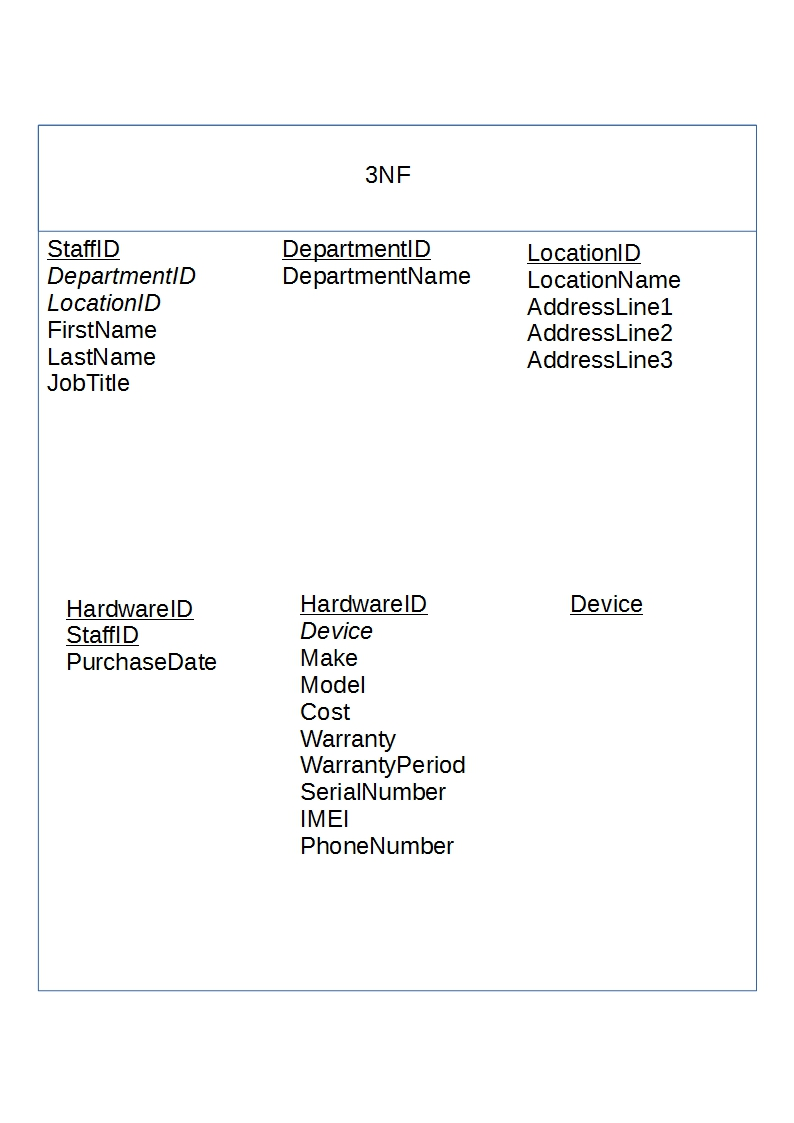
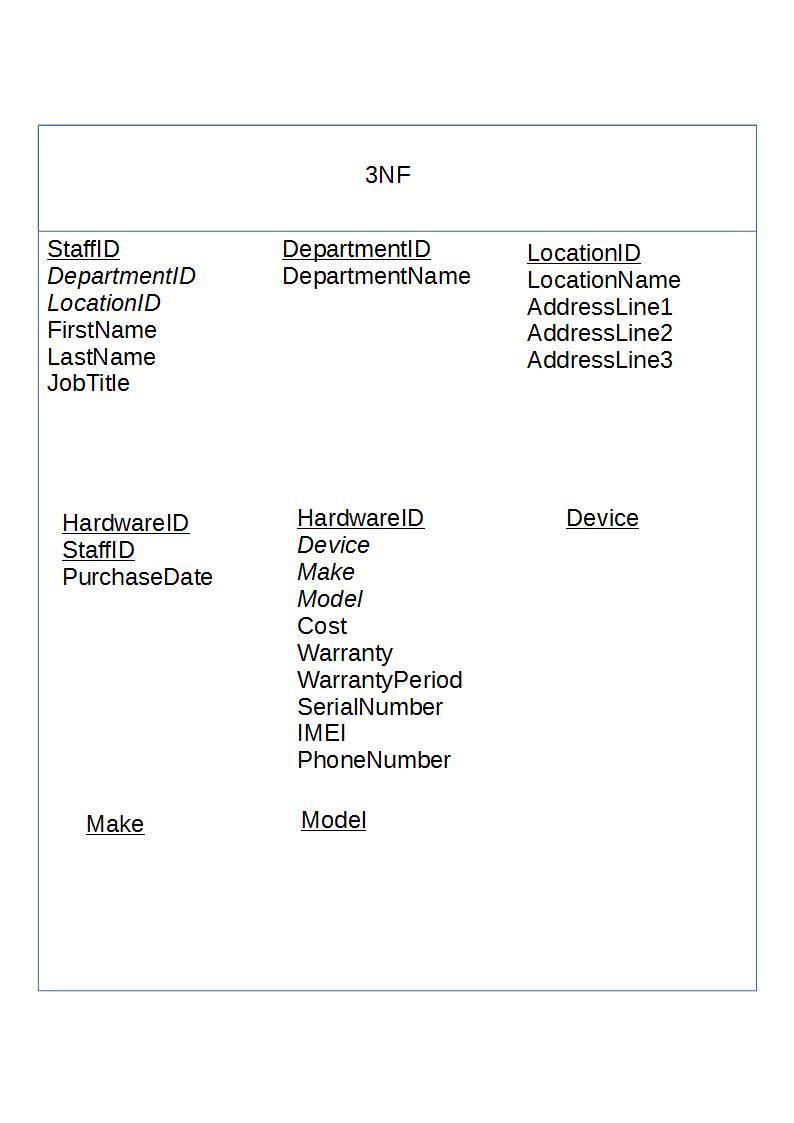
Normalisation Done

diff --git a/Coursework/Design/design.tex b/Coursework/Design/design.tex
@@ -155,7 +155,15 @@ Users will connect to the system using their own computers at the workplace. The
 
 \
 
-\textbf{Hardware}  (\underline{HardwareID}, \textit{Device}, HardwareMake, HardwareModel,\\ HardwareCost, HardwareWarranty, HardwareWarrantyPeriod,\\ HardwareSerialNumber, 		HardwareIMEINumber, \\HardwarePhoneNumber)
+\textbf{Hardware}  (\underline{HardwareID}, \textit{DeviceID},  \textit{HardwareModelID},\\ HardwareCost, HardwareWarranty, HardwareWarrantyPeriod,\\ HardwareSerialNumber, 		HardwareIMEINumber, \\HardwarePhoneNumber)
+
+\
+
+\textbf{HardwareMake} (\underline{HardwareMakeID}, HardwareMakeName)
+
+\
+
+\textbf{HardwareModel} (\underline{HardwareModelID}, HardwareModelName, \textit{HardwareMakeID})
 
 \
 
@@ -179,6 +187,10 @@ Users will connect to the system using their own computers at the workplace. The
 
 
 \textbf{Location}  (\underline{LocationID}, LocationName, LocationAddrLine1, LocationAddrLine2, LocationAddrLine3)
+
+\
+
+\textbf{DepartmentLocation} (\underline{LocationID}, \underline{DepartmentID})
 
 
 
